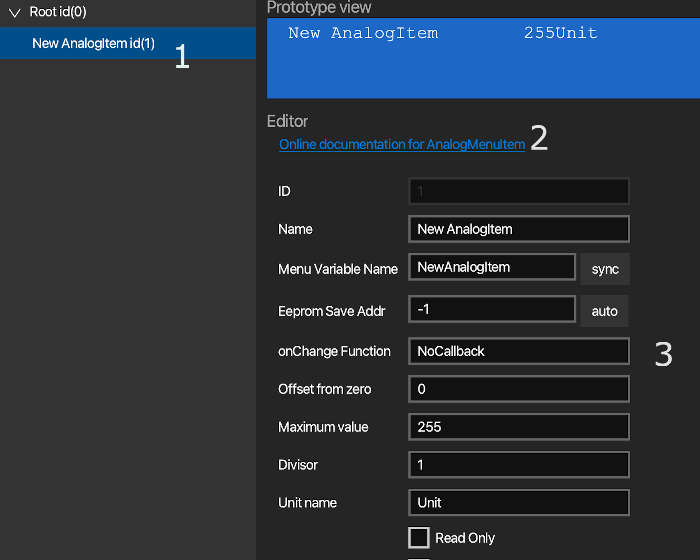
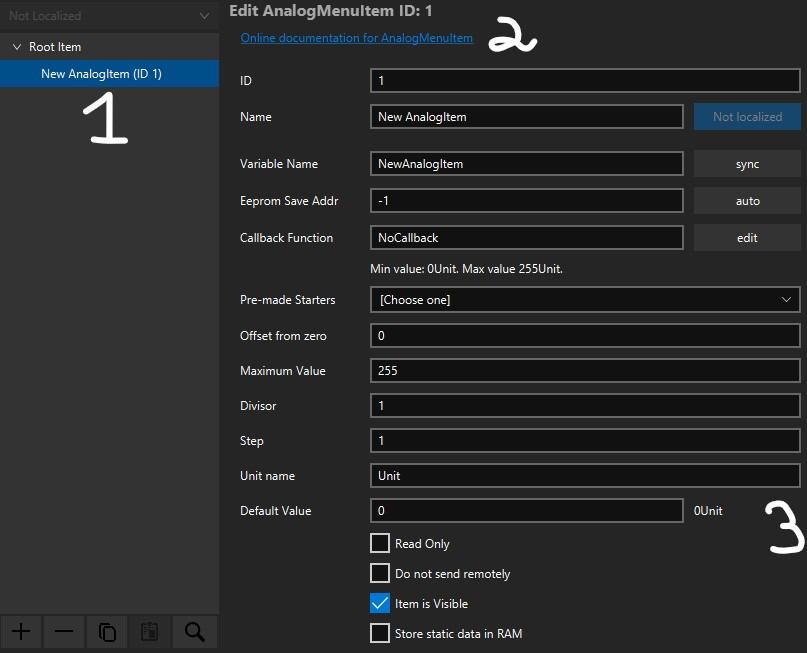
update getting started guide.

diff --git a/content/products/arduino-libraries/tc-menu/tcmenu-overview-quick-start.md b/content/products/arduino-libraries/tc-menu/tcmenu-overview-quick-start.md
@@ -18,9 +18,13 @@ aliases = "/products/arduino-libraries/tc-menu/tcmenu-generator-ui-documentation
 
 Above: getting started video showing how to use our menu library with Arduino. Link to the [Getting started with tcMenu Slides (from youtube video).](/downloads/slides/tcmenu-starter-presentation.pdf)
 
-TcMenu is a modular, IoT ready multi-level menu library for Arduino and mbed supporting many input, display and IoT / remote interfaces. It makes presenting configuration, status and operational information much easier. The designer UI works by converting your menu structure into C++ code that works with your chosen hardware through plugins. It is capable of producing localisable multi-language menu applications.
+## Menu library and designer for Arduino and mbed
 
-In most cases, the generated code will present an editable menu without you writing more than a line of code. However, if you use I2C you may need to ensure `Wire.begin();` is called, and for logging make sure you've followed the [Arduino logging with IoAbstraction]({{< relref "arduino-logging-with-io-logging.md">}}) guide!
+TcMenu is a modular, IoT ready multi-level menu library for Arduino and mbed supporting many input, display and IoT / remote interfaces. It makes presenting configuration, status and operational information much easier. 
+
+First, you design your menu structure using the designer UI, then using the code generator you convert your menu structure into Arduino, mbed or Raspberry-PI compatible code that works with your chosen hardware through plugins. The code generator is non-destructive so can be used throughout your project lifecycle.
+
+Further, the designer and code generator are capable of producing localised multi-language menu applications. You can edit the various languages directly within the IDE and then at runtime you can set a compile flag to choose the locale needed.
 
 The below guide will go from design right through to generating a complete, working application:
 
@@ -34,7 +38,7 @@ The below guide will go from design right through to generating a complete, work
 8. Compile the code in your favourite IDE and upload to a board.
 9. Add more items as needed (round trip between designer and IDE).
 
-### Step 1: Draw out your application state and group logically
+## Step 1: Draw out your application state and group logically
 
 The first step is to understand your application's state, IE the things that can be configured such as settings, the state that can be changed, such as real time adjustments, and also the status values that provide read only information. We provide an example below for a simple amplifier. If you're moving from another solution this step can probably be skipped.
 
@@ -52,36 +56,46 @@ Let's convert this into text:
 
 And at this point we are ready to open the menu designer software.
 
-### Step 2 - Get tcMenu Designer - Windows, macOS, Linux
+## Step 2 - Get tcMenu Designer - Windows, macOS, Linux
 
 Our Menu Designer software is available to download from the [tcMenu releases page](https://github.com/davetcc/tcMenu/releases). It can design menus and generate code for a wide range of input, display and remote control options. Available as a signed installer for Windows, Notarized app for macOS, and as a Debian package for Linux.
 
-### Step 2a: Ensure the Arduino libraries are installed
+## Step 2a: Ensure the Arduino libraries are installed
 
 You will need to install TcMenu library and all dependencies from Arduino IDE, or add the library dependency in the platformIO project ini file. As [TcMenu library](https://github.com/davetcc/tcMenuLib/releases) is built on [IOAbstraction library]({{< relref "io-abstraction.md">}}), [TaskManagerIO library]({{< relref "taskmanager-io.md">}}), [SimpleCollections]({{< relref "simple-collections.md">}}) and [TcUnicodeHelper]({{< relref "tc-unicode-helper.md" >}}) it's worth reading a little about these libraries too.
 
 **PlatformIO note:** Even if you're using platformIO, we recommend that you still [download at least tcMenu library](https://github.com/davetcc/tcMenuLib/releases) initially for the examples. In this case create a libraries directory and put tcMenu in it.
 
-### Step 3: Start the designer UI and ensure everything is ready
+## Step 3: Start the designer UI and ensure everything is ready
 
-{{< figure src="/products/arduino-libraries/images/electronics/renderer-docs/tcmenu-designer-start-page.jpg" title="Menu Designer UI - main window" alt="menu designer UI on macOS showing main window" >}}
+{{< figure src="/products/arduino-libraries/images/electronics/renderer-docs/tcmenu-designer-start-page.jpg" title="Menu Designer UI - Edit -> General Settings" alt="menu designer UI on macOS showing the general settings dialog" >}}
 
-At this point start designer and go to Edit -> General Settings. From here we can set up the project/sketches folder, and libraries directory. The sketches folder is used to provide a list of sketches, and also the default new project location. The libraries directory is used to check if libraries are up-to-date and also to provide a list of examples. You can always see available and installed versions from the "Library Versions" tab of General Settings.
+Once you've started the designer choose the "Edit -> General Settings" menu item. From here we can set up the project/sketches folder, and libraries directory. The sketches folder is used to provide a list of sketches, and also the default new project location. The libraries directory is used to check if libraries are up-to-date and also to provide a list of examples. You can always see available and installed versions from the "Library Versions" tab of General Settings.
 
-**PlatformIO note:** users who don't want to have a global copy of the libraries, from Edit -> General Settings untick the "I am using Arduino IDE" option. 
+Here you can also configure how many backups will be kept (they are now in the .backup directory of your project), how deep into both library and project directory structures to scan for examples, and available projects, and also you can setup the global options for new projects. We'll go into these later.
 
-Nearly all functions are available from the menu, with the main page split into several areas:
+**PlatformIO note:** users who don't want to have a global copy of the libraries, from Edit -> General Settings untick the "I am using Arduino IDE" option. This turns off all library checking, and will not populate the library examples menu item. 
+
+### Overview of the application menu options 
+
+The application has a main menu, on Windows and Linux it is at the top of the designer window, on macOS it will reside in the system menu area as per other apps.
 
 * "File" Menu contains functions to Open and Save projects, including listing out Examples, Sketches and Recently edited items.
 * "Edit" Menu has functions for clipboard, undo/redo and also the Settings dialog.
 * "Menu Item" menu contains functions for working with menu items, most are also in the item toolbar bottom-left below the menu tree.
-* "Code" menu has the Code Generator, EEPROM validator, and also a list of [IO expanders]({{< relref "setting-up-io-expanders-in-menu-designer.md" >}}).
+* "Code" menu has the Code Generator, EEPROM validator, internationalization settings, and also a list of [IO expanders]({{< relref "setting-up-io-expanders-in-menu-designer.md" >}}). It also contains utilities for [bitmap/widget creation]({{< relref "creating-and-using-bitmaps-menu.md">}}) and [font creation]({{< relref "using-custom-fonts-in-menu.md">}}).
 * "Help" menu has links to the most important parts of the tcMenu documentation. It also has a link to the forum and can prepare diagnostic info too.
-* Clicking on an item opens it up for editing in the editor area. You can change the values here and they are validated as you type.
+
+### Overview of the main window
+
+{{< figure src="/products/arduino-libraries/images/electronics/renderer-docs/menu-editor-main-with-preview.png" title="Menu Designer UI - main window (left) with preview (right)" alt="menu designer UI showing the main window (left) and preview (right)" >}}
+
+* From the menu tree, clicking on an item opens it up for editing in the editor area. You can change the values here and they are validated as you type.
 * Clicking on the Root item edits the project level properties. From here you can set the unique ID for the project and also the application name that will appear in the title area.
-* To move and copy items you can copy and paste menu items by selecting them in the tree, even using regular clipboard keyboard shortcuts. You can also drag and drop items to move them. If you drop near the top of an item the insert point is above, otherwise it is below. 
+* You can drag and drop items to move them. If you drop near the top of an item the insert point is above, otherwise it will be placed below the item. If you drop into a submenu, it will drop into the submenu instead.
+* You can also use copy and paste to move items around the tree, either from the Edit menu, or using regular clipboard shortcuts.
 * You can take a copy of a menu tree that can be loaded by the Java or C# API by copying from a point in the tree and pasting into a text editor.
-* A prototype view showing an approximate embedded layout is available from the "Menu Item" menu
+* The prototype view (right) that shows an approximate embedded layout is available from the "Menu Item -> Show Preview" menu. This brings up a lightweight EmbedControl form that is kept in sync as you edit. This is discussed in more detail in the [EmbedControl documentation](https://www.thecoderscorner.com/products/apps/embed-control/).
 
 ### Step 4: Create a new project directory to store your embedded application.
 
@@ -89,7 +103,7 @@ At this point you have two choices, either start with an example or a new projec
 
 {{< figure src="/products/arduino-libraries/images/electronics/renderer-docs/tcmenu-designer-create-project.jpg" title="Menu Designer UI - create project dialog" alt="Menu Designer UI - create project dialog" >}}
 
-Select the "I want to create a new project on disk" option, this creates a new folder in the chosen location (default is your sketch directory). Type in the name of the project that you want to create, once done the main window will be displayed again with the created project already opened.
+Select the "I want to create a new project on disk" option, this creates a new folder in the chosen location (default is your sketch directory). Type in the name of the project that you want to create, and select an appropriate platform. Advanced: If you want to use a CPP file instead of an INO, tick the "Use CPP" box, and you can enable internationalization support at this point too. Choose appropriate options and click "Create". 
 
 **PlatformIO note:** At this point you will probably want to create a platformio.ini file in this directory for your specific board. Also add the library dependency on [tcMenu library](https://platformio.org/lib/show/7316/tcMenu) at the same time. 
 
@@ -97,19 +111,29 @@ Select the "I want to create a new project on disk" option, this creates a new f
 
 Now we create the menu items based on the state that we identified earlier in Step 1.
 
-On the left of the main designer window there is a menu tree, this list contains all the menu items within this project and is shown in the main page image below marked (1).  To add a menu item we first select the submenu where we'd like it to appear and press the plus button in the menu item toolbar (below the menu tree on the left). The following will appear:  
+On the left of the main designer window there is a menu tree, this list contains all the menu items within this project and is shown in the main page image below marked (1).  To add a menu item we first select the submenu where we'd like it to appear and press the plus button in the menu item toolbar (below the menu tree on the left).  
+
+Note that items are created in whichever submenu was selected (or the nearest submenu to the item selected). Below is the create new item dialog:
+
+{{< figure src="/products/arduino-libraries/images/electronics/renderer-docs/add-menu-item-button.png" title="Menu Item toolbar (add item highlighted)" alt="Menu Item toolbar (add item highlighted)" >}}
+
+And once add menu item is pressed: 
 
 {{< figure src="/products/arduino-libraries/images/electronics/renderer-docs/tcmenu-designer-add-item.jpg" title="Adding a new menu item" alt="add menu item" >}}
 
-Do not change the ID unless you explicitly want to manage them yourself, it is automatically generated and unique. Simply choose the type of item you want to add and press create. In this case we create a regular numeric editor.
+Do not change the ID unless you explicitly want to manage them yourself, it is automatically generated and unique. Simply choose the type of item you want to add and press create. In this case we create a regular numeric editor. The new item will immediately be selected in the tree, and you can start editing its as the name field has the focus. 
 
 {{< figure src="/products/arduino-libraries/images/electronics/renderer-docs/menu-designer-edit-item-view.jpg" title="Editing an analog menu item" alt="edit an analog menu item" >}}
 
-When we select an item in the menu tree (1), its properties become editable on the right-hand side (3). We can change the name, EEPROM storage location (usually by pressing Auto to get the next location), and any properties that are specific to that kind of item. As you edit the values are immediately validated and any errors reported above the item properties. Each menu item type has a link (2) to comprehensive documentation. 
+When we select an item in the menu tree (1), its properties become editable on the right-hand side (3). We can change the name, EEPROM storage location (usually by pressing Auto to get the next location), and any properties that are specific to that kind of item. As you edit the values are immediately validated and any errors reported above the item properties. 
+
+Each menu item type has a link (2) to comprehensive documentation that explains the intended purpose, how to create the item and full instructions on its usage, including the main functions that you can use to interact with that type of item at runtime. 
  
 Callbacks: You can optionally create a callback function that will be notified of any change immediately. However, you can also poll the state of the item as you need to. Both options are fully documented in [the menu item documentation]({{< relref "menu-item-types.md" >}}); which you can directly access from the link (2) in the designer UI. 
 
-Repeat this process until you've fully represented you application state.
+Repeat this process until you've fully represented your application state.
+
+At any time you can switch focus to the menu tree by pressing `F10`, and you can switch focus back to the item properties editor using `Esc`. You can also search for a menu item in a large structure using `F4`, all these functions are available from the "Menu Item" menu too until you familiarize yourself with the shortcuts. 
 
 ### Step 6: Ensure EEPROM ranges don't overlap
 
@@ -165,6 +189,9 @@ You'll now have code in the directory that you generated to. You'll see several 
 
 If you're using things that need wire library, you may need to add `Wire.begin` to your sketch, and if you're using the inbuilt logging, you may need to start Serial too. 
 
+
 Also see the [Designer UI worked example]({{< relref "generator-ui-worked-example.md" >}}) that's a bit out date but still useful for better understanding.
 
-* [Back to tcMenu main page]({{< relref "tc-menu" >}}) 
+## Next steps
+
+[The main tcMenu page]({{< relref "tc-menu" >}}) has a considerable amount of documentation, that covers the vast majority of what you can do with the library.  
